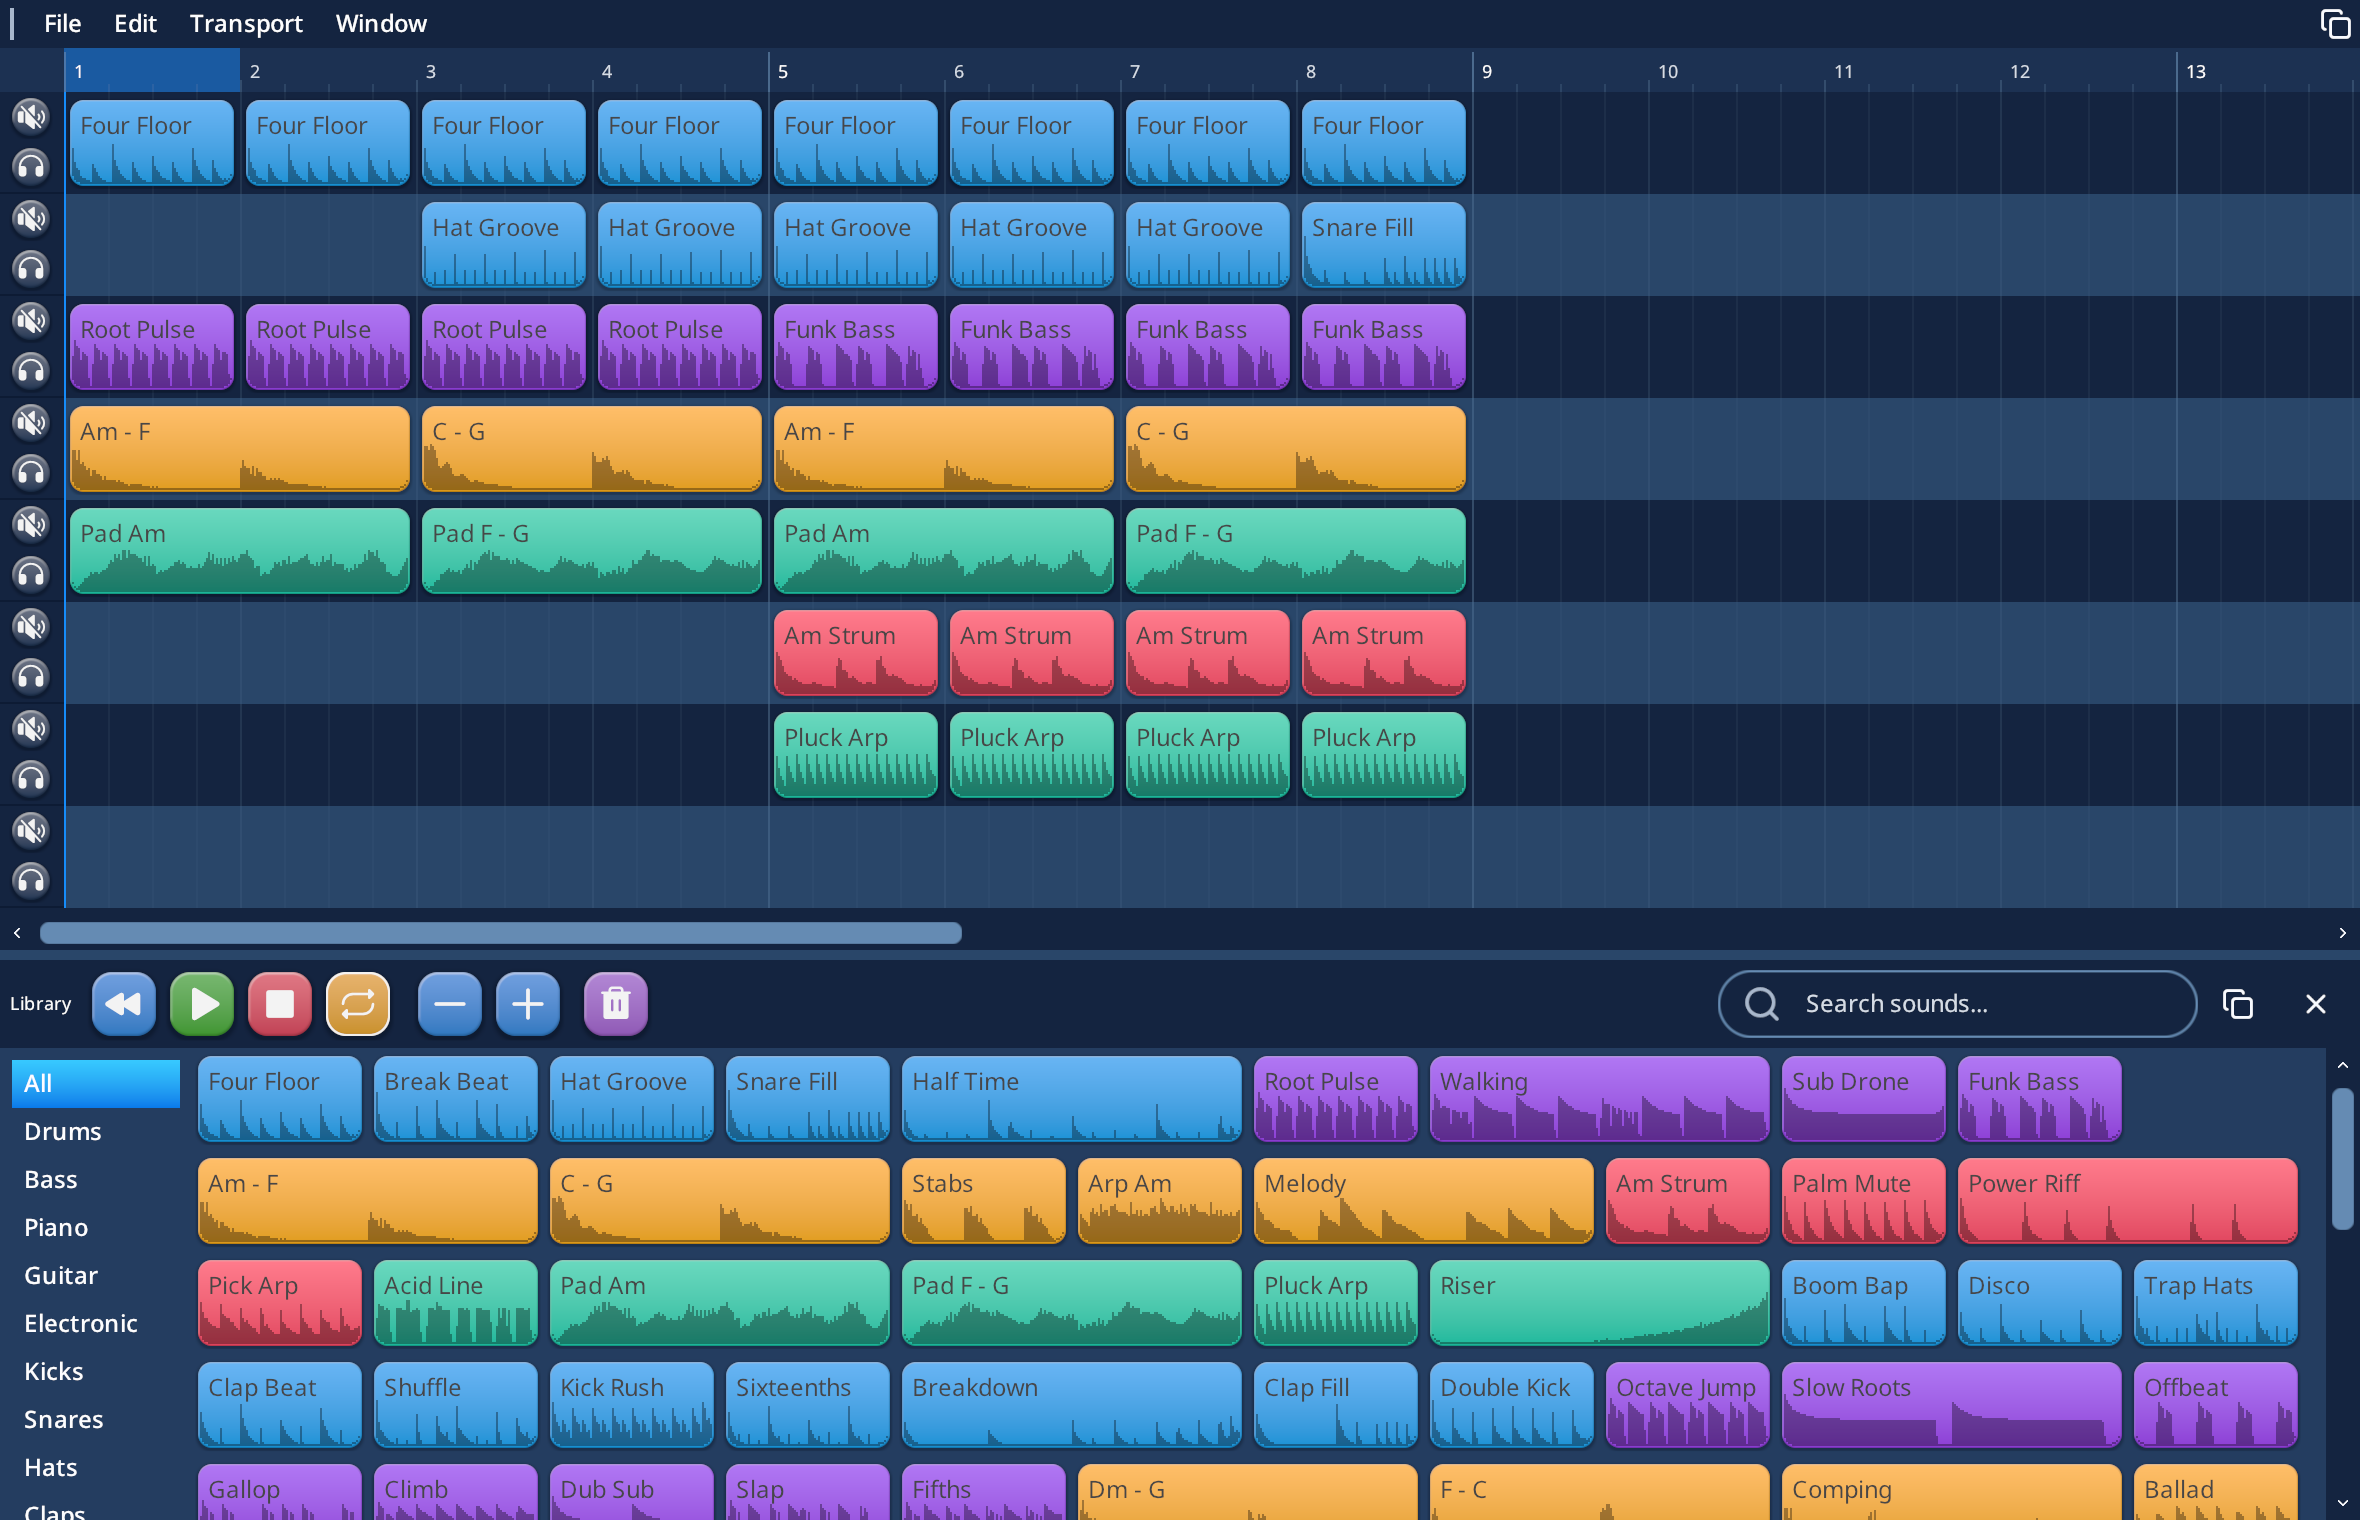
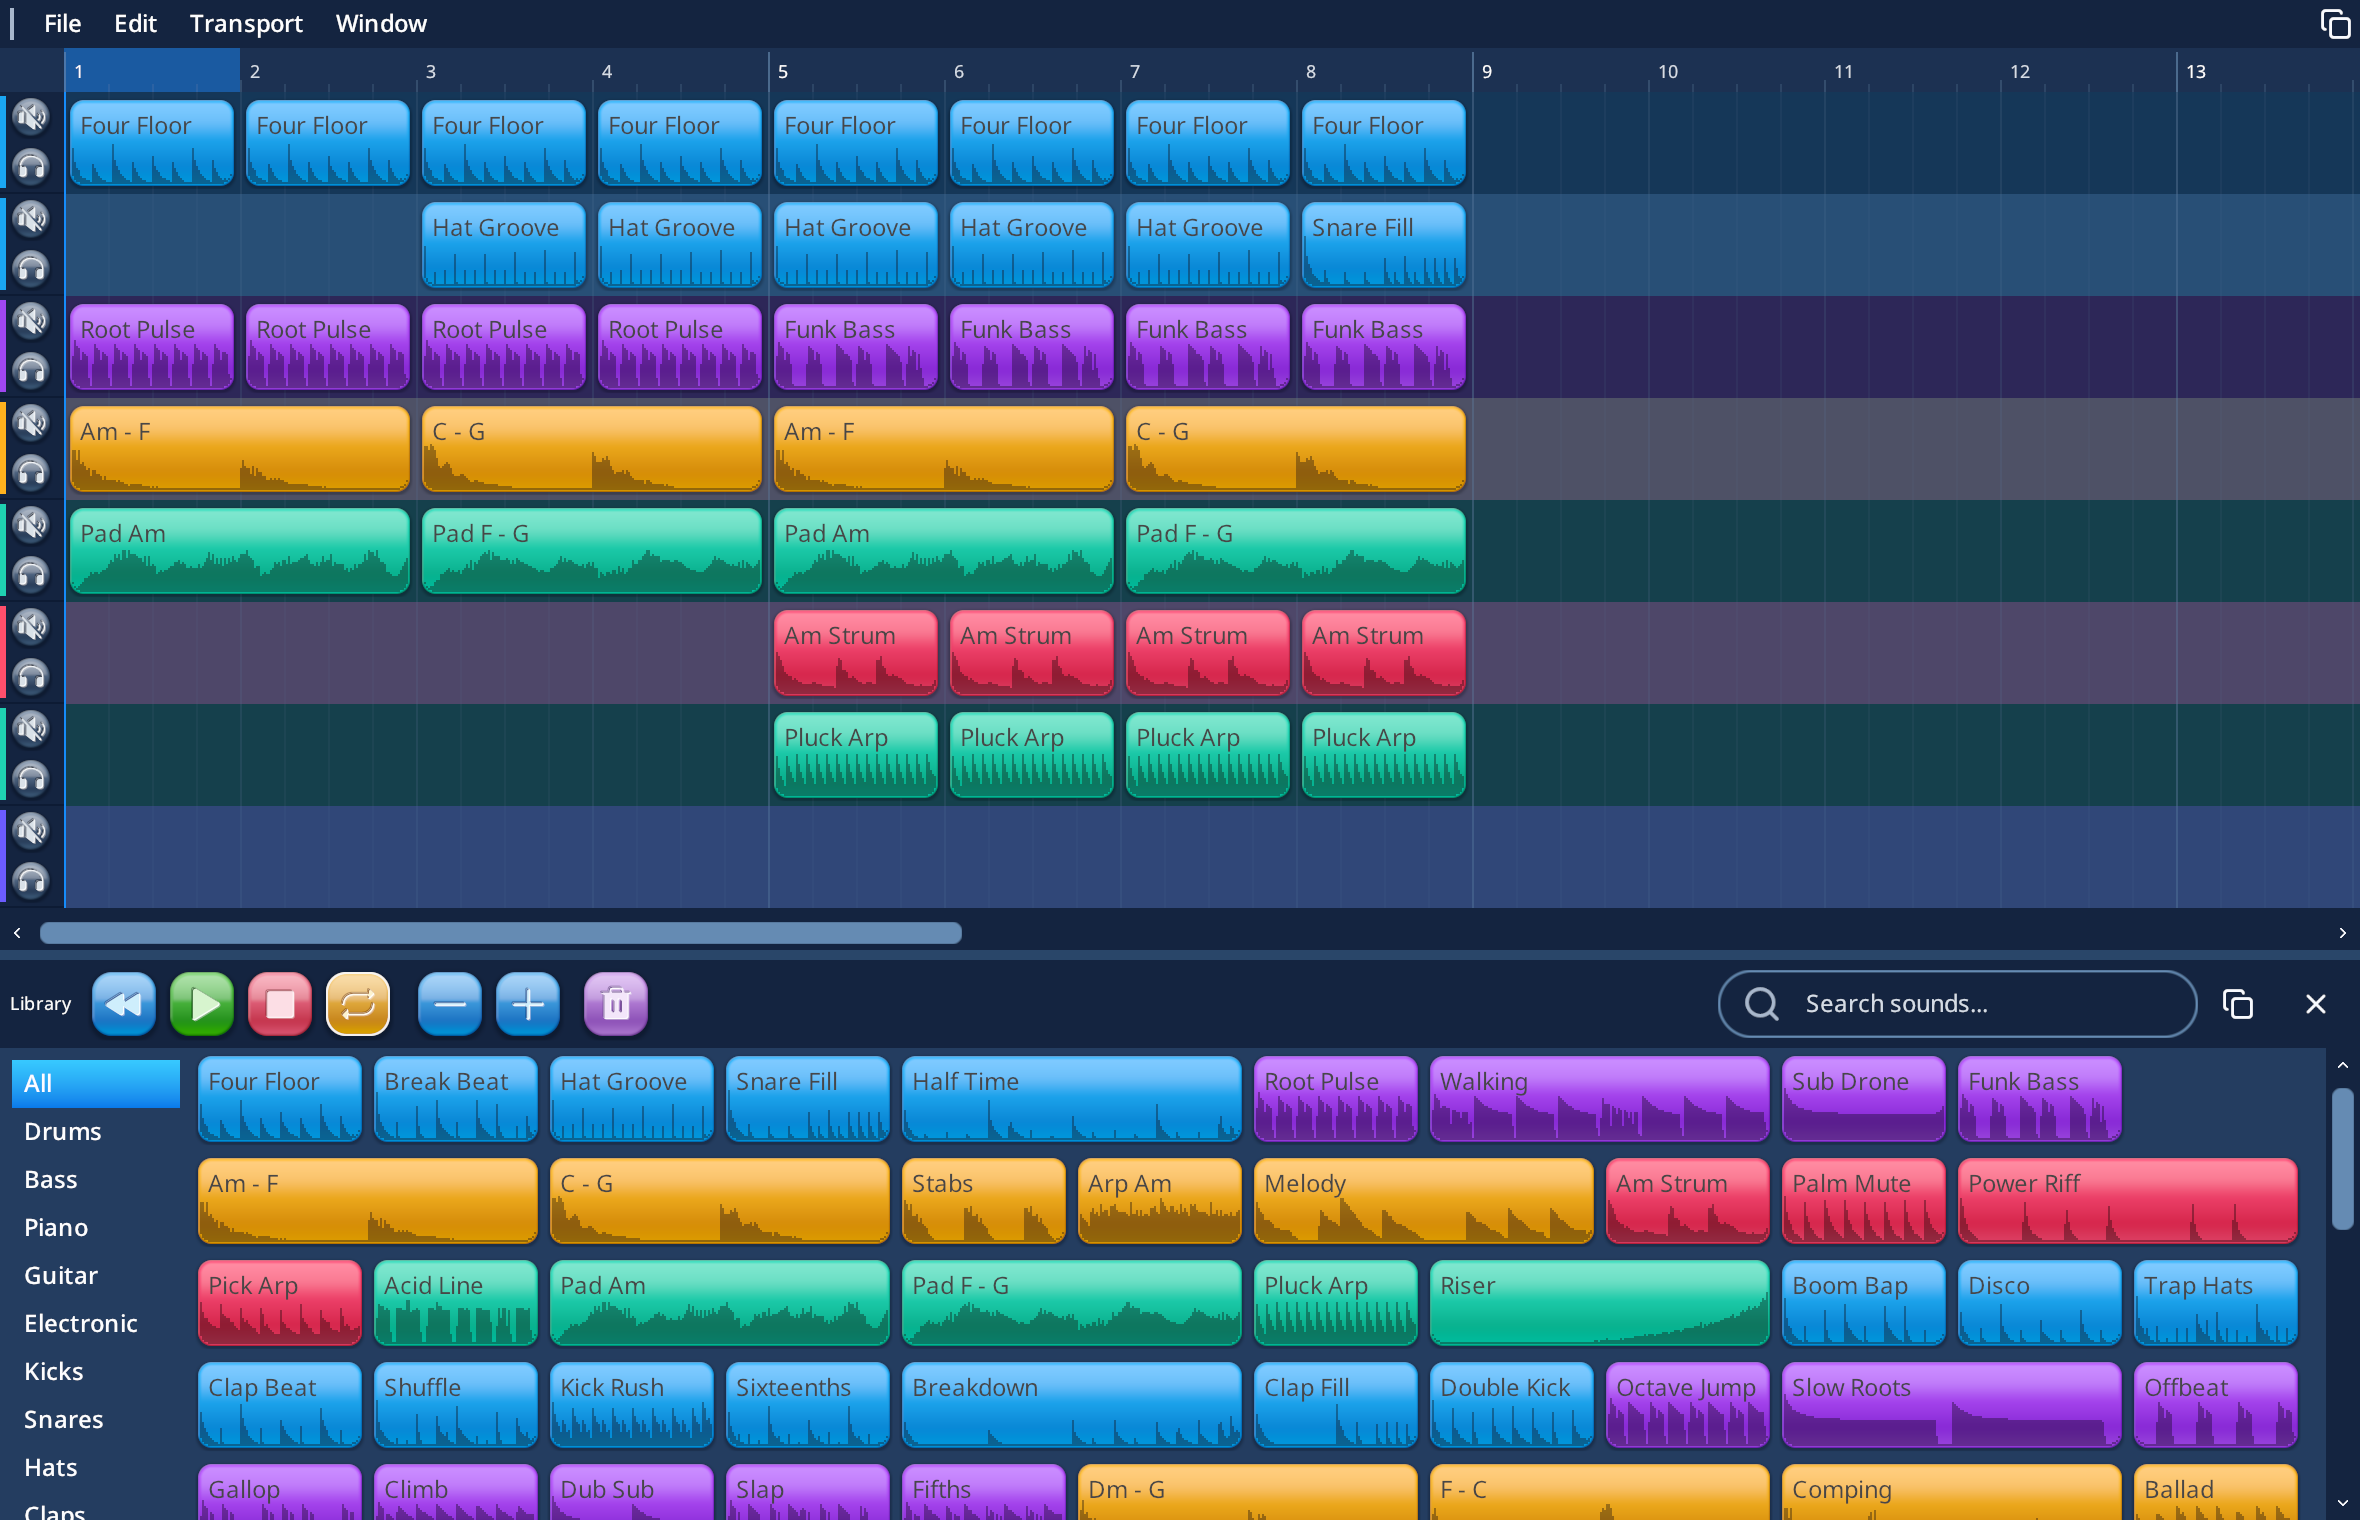
Saturate Groove plastic and deboss transport glyphs
Plastic surfaces were desaturated: the face lerped toward white at the top
and toward a dimmed base at the bottom. Boost saturation, shade with
hue-preserving gamma curves, add an upper gloss band and a lower bounce light
so buttons and sample cards read as bright candy plastic.

Glyphs are now debossed: the shader samples the mask offset up-left and
down-right to draw a dark upper/left wall, a lower/right catchlight, a dark
lip on the face and a tinted milky floor. Track lanes and headers pick up the
hue of their clips, and active mute/solo toggles use red/amber.

diff --git a/apps/groove/view_sheet.c b/apps/groove/view_sheet.c
@@ -42,9 +42,19 @@ static irect16_t solo_rect(window_t *win, int t) {
   return rect_offset(mute, 0, mute.h + 2);
 }
 
-static void draw_track_toggle(irect16_t r, const char *icon, bool active) {
-  ctrl_state_t state = active ? CTRL_SELECTED : CTRL_NORMAL;
-  draw_plastic_button(r, state, get_sys_color(active ? brAccent : brControlBg), icon);
+static void draw_track_toggle(irect16_t r, const char *icon, bool active, uint32_t on_color) {
+  draw_plastic_button(r, active ? CTRL_SELECTED : CTRL_NORMAL, active ? on_color : get_sys_color(brControlBg), icon);
+}
+
+// Hue of the track's earliest clip, so the lane and header match the cards they hold.
+static uint32_t track_color(int t) {
+  static const category_t fallback[GR_TRACKS] = {0, 7, 1, 2, 4, 3, 13, 15};
+  const song_t *s = &g_app->song;
+  int best = -1;
+  for (int i = 0; i < s->nclips; i++)
+    if (s->clips[i].track == t && (best < 0 || s->clips[i].position < s->clips[best].position)) best = i;
+  const block_t *b = best >= 0 ? block_get(s->clips[best].block) : NULL;
+  return category_color(b ? b->cat : fallback[t]);
 }
 
 static void sync_scroll(window_t *win) {
@@ -152,8 +162,9 @@ static void paint_headers(window_t *win) {
     int y = track_y(win, t), rh = row_h(win);
     fill_rect(get_sys_color(brDarkEdge), R(0, y + rh - 1, HDR_W, 1));
     irect16_t m = mute_rect(win, t), s = solo_rect(win, t);
-    draw_track_toggle(m, "phosphor-speaker-slash-fill", g_app->song.mute[t]);
-    draw_track_toggle(s, "phosphor-headphones-fill", g_app->song.solo[t]);
+    fill_rect(track_color(t), R(0, y + 2, 3, rh - 5));
+    draw_track_toggle(m, "phosphor-speaker-slash-fill", g_app->song.mute[t], WEB(0xff4f6c));
+    draw_track_toggle(s, "phosphor-headphones-fill", g_app->song.solo[t], WEB(0xffb21e));
   }
 }
 
@@ -181,8 +192,11 @@ static void paint_sheet(window_t *win) {
   sync_clips(win);
   fill_rect(get_sys_color(brWorkspaceBg), cr);
   set_clip_rect(win, grid);
-  for (int t = 0; t < GR_TRACKS; t++)
-    fill_rect(get_sys_color(t % 2 ? brColumnViewBg : brWindowDarkBg), R(grid.x, track_y(win, t), grid.w, row_h(win)));
+  for (int t = 0; t < GR_TRACKS; t++) {
+    irect16_t lane = R(grid.x, track_y(win, t), grid.w, row_h(win));
+    fill_rect(get_sys_color(t % 2 ? brColumnViewBg : brWindowDarkBg), lane);
+    fill_rect(color_with_alpha(track_color(t), 0x0e), lane);
+  }
   for (int position = 0; position <= GR_BARS * GR_TICKS_BAR; position += GR_SNAP_TICKS) {
     int alpha = position % GR_TICKS_BAR ? 0x0a : position % (4 * GR_TICKS_BAR) ? 0x14 : 0x38;
     fill_rect(color_with_alpha(get_sys_color(brLightEdge), alpha), R(position_x(win, position), grid.y, 1, grid.h));

diff --git a/tests/renderer_alpha_test.c b/tests/renderer_alpha_test.c
@@ -194,7 +194,7 @@ static void test_image_background(void) {
 }
 
 static void test_plastic_surface(void) {
-  TEST("Plastic states preserve bounds, disable interaction shading and keep the solid glyph crisp");
+  TEST("Plastic states preserve bounds, disable interaction shading and deboss the glyph");
   CGLPixelFormatAttribute attrs[] = {kCGLPFAOpenGLProfile,
     (CGLPixelFormatAttribute)kCGLOGLPVersion_3_2_Core, 0};
   CGLPixelFormatObj format = NULL;
@@ -242,17 +242,17 @@ static void test_plastic_surface(void) {
     glClear(GL_COLOR_BUFFER_BIT);
     render_plastic_surface(R(2, 2, 28, 28), 10, 2, 3, CTRL_NORMAL, 0x8036aa48,
                             0x80000000, glyph, NULL, (ipoint16_t){16, 16});
-    uint8_t face[4], rim[4], top[4], center[4];
+    uint8_t face[4], rim[4], top[4], center[4], bottom[4];
     read_card_pixel(8, 16, face); read_card_pixel(16, 28, rim);
-    read_card_pixel(16, 12, top); read_card_pixel(16, 16, center);
-    ok &= face[3] == 128 && rim[3] > 0 && rim[3] < 128 && memcmp(top, center, 4) == 0;
+    read_card_pixel(16, 12, top); read_card_pixel(16, 16, center); read_card_pixel(16, 19, bottom);
+    ok &= face[3] == 128 && rim[3] > 0 && rim[3] < 128 && top[1] < center[1] && bottom[1] > center[1];
     for (int size = 4; size <= 24; size += 4) {
       glClear(GL_COLOR_BUFFER_BIT);
       render_plastic_surface(R(4, 4, size, 8), 100, 2, 3, CTRL_SELECTED, WEB(0x48aa36), 0x80000000, 0, NULL, (ipoint16_t){0, 0});
     }
     ok &= glGetError() == GL_NO_ERROR;
-    if (!ok) fprintf(stderr, "[renderer-test] plastic normal=%u pressed=%u hover=%u alpha=%u,%u glyph=%u,%u\n",
-                      samples[0][1], samples[2][1], samples[3][1], face[3], rim[3], top[1], center[1]);
+    if (!ok) fprintf(stderr, "[renderer-test] plastic normal=%u pressed=%u hover=%u alpha=%u,%u glyph=%u,%u,%u\n",
+                      samples[0][1], samples[2][1], samples[3][1], face[3], rim[3], top[1], center[1], bottom[1]);
   }
   R_DeleteTexture(glyph);
   R_DestroyWindowTarget(&fbo, &texture, &w, &h);
